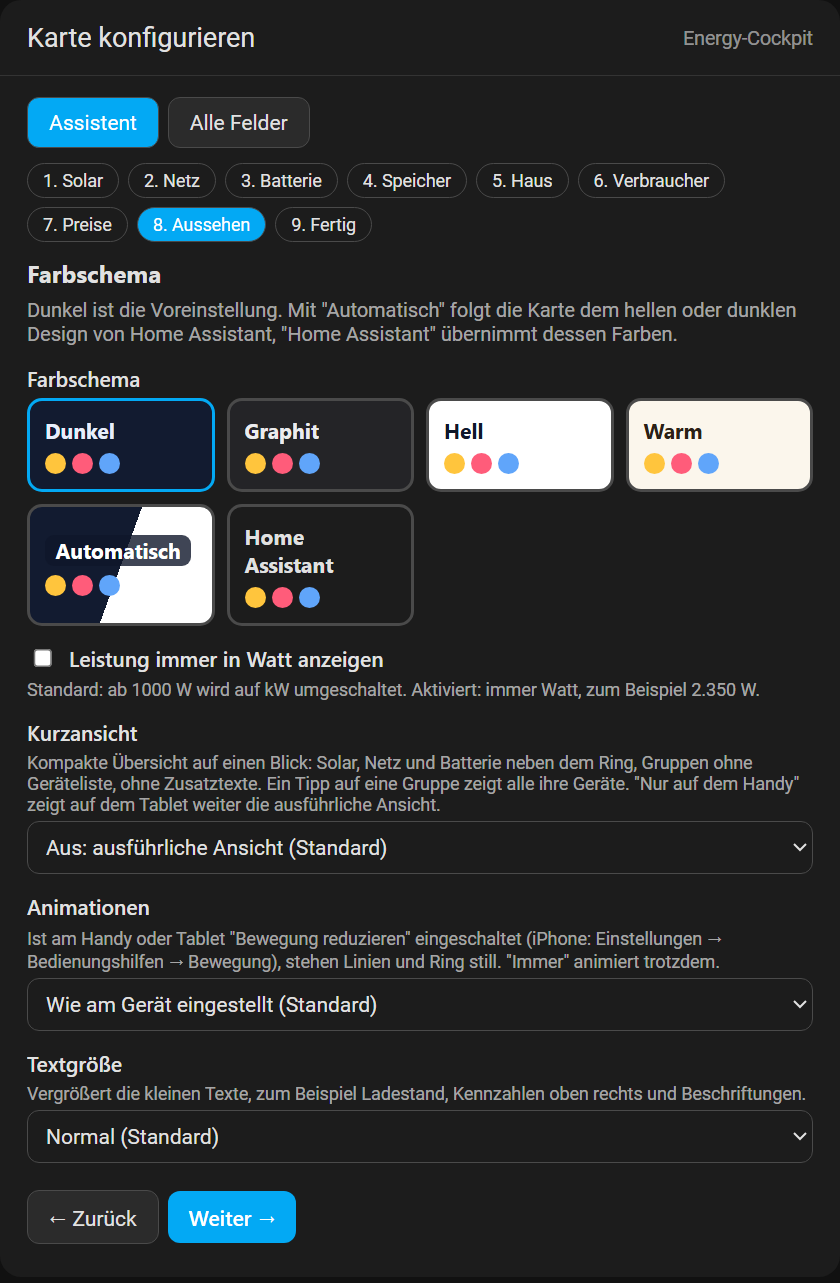
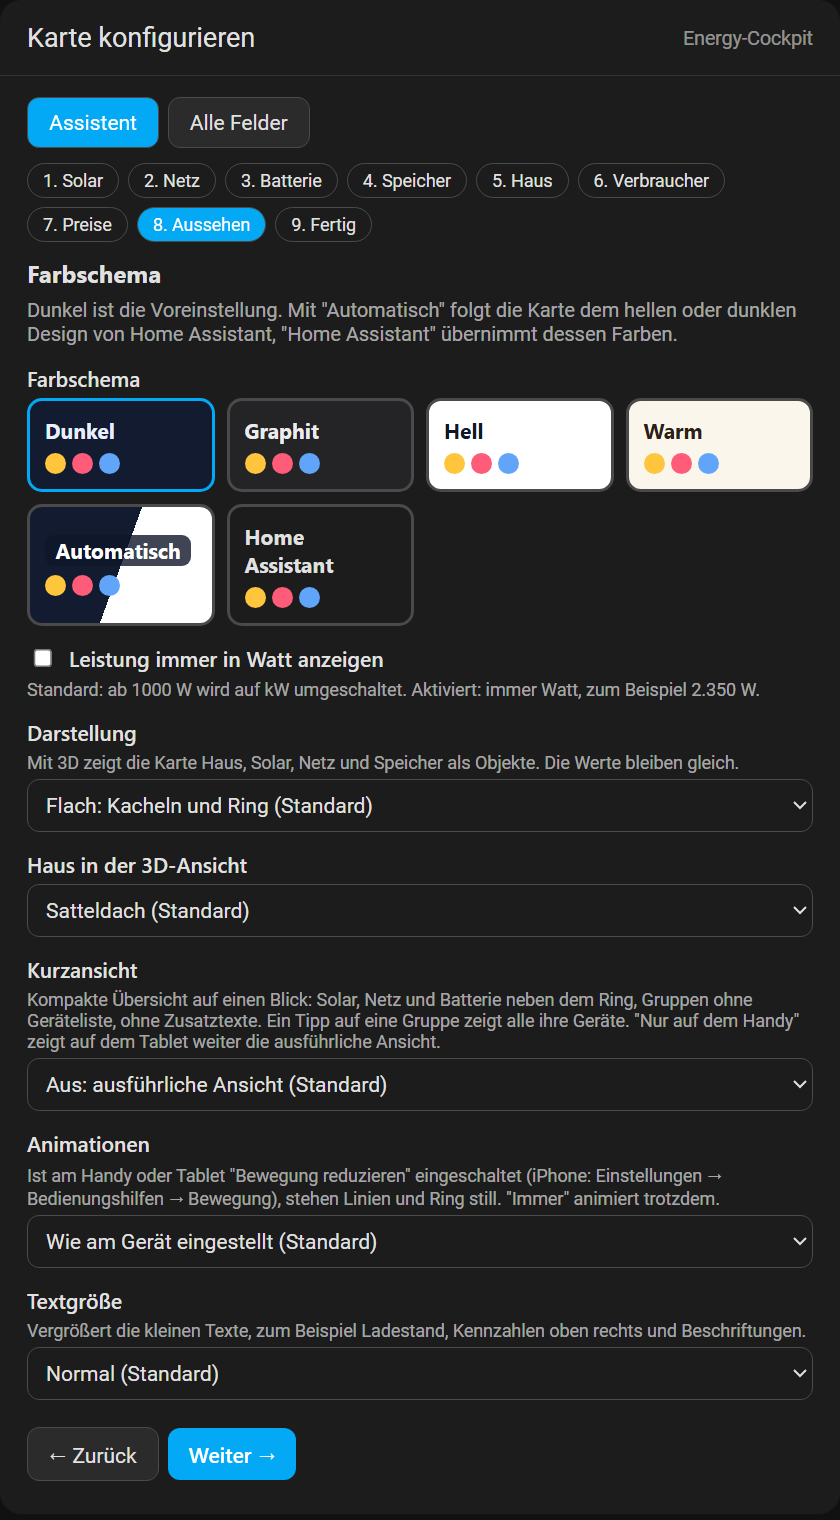
0.19.0: 3D-Ansicht, Kosten je Verbraucher, Reiter Woche, Preisverlauf
- Energiefluss: style 3d (Haus, Solar, Netz, Speicher als Objekte), house_style
- Statistik: cost_consumers, Reiter Woche, grid_price_history, pv_ac
- Doku, README, Screenshots und Tests ergaenzt

diff --git a/test/stats-costs.html b/test/stats-costs.html
@@ -87,5 +87,22 @@ async function run(){
   ok('Abfrage fehlgeschlagen: Bereich aus, kein Absturz',q(e,'.cc').style.display==='none');
   document.getElementById('res').textContent=`${fail?'FEHLER '+fail:'ALLE OK'}\n`+lines.join('\n');
 }
-if(new URLSearchParams(location.search).get('test'))run();else mount({...base,pv_ac:true},hassFor());
+if(new URLSearchParams(location.search).get('test'))run();else{const P=new URLSearchParams(location.search);let c={...base,pv_ac:true},st={};
+  if(P.get('scene')==='demo'){ /* Vorschau mit gerechneten Beispielstunden fuer die Bilder der Doku */
+    hrs.length=0;past.t=0;Object.assign(map,{'sensor.cg':'cg','sensor.cb':'cb','sensor.cp':'cp','sensor.wp':'wp','sensor.ww':'ww','sensor.tr':'tr'});
+    for(let d=0;d<=45;d++)for(let h=0;h<24;h++){const t=d0-d*24*H+h*H;if(d===0&&h>now.getHours()-1)break;
+      const sun=h>=7&&h<=17?Math.sin(Math.PI*(h-7)/10):0,pv=+(2.6*sun*(0.55+0.45*(((d*37)%10)/10))).toFixed(2),
+        peak=(h>=6&&h<=8)||(h>=18&&h<=22),car=(d%2===0&&h>=10&&h<=12)?2.2:(d%2===1&&h>=1&&h<=3)?2.2:0,
+        wp=h>=5?+(0.22+0.1*(1-sun)).toFixed(2):0.15,ww=h>=11&&h<=12?0.8:0,tr=(d%3===0&&h===15)?0.9:0,
+        cons=0.4+(peak?0.55:0)+car+wp+ww+tr,chg=(h>=9&&h<=14&&pv>cons)?Math.min(1.2,+(pv-cons).toFixed(2)):0,dis=(h>=18&&h<=23)?0.7:0,
+        imp=Math.max(0,+(cons+chg-pv-dis).toFixed(2)),exp=Math.max(0,+(pv+dis-cons-chg).toFixed(2));
+      const cp=car&&pv>0?Math.min(car,pv):0,cb=car&&!cp&&dis>0?Math.min(car,dis):0,cg=car-cp-cb;
+      const mix=(x)=>{const tot=pv+imp+dis||1;return{g:x*imp/tot,b:x*dis/tot,p:x*pv/tot}};
+      hrs.push({t,pv,imp,exp,chg,dis,e:0,g:0,b:0,p:0,cg,cb,cp,wp,ww,tr});}
+    c={pv_total:'sensor.pv',grid_import_total:'sensor.imp',grid_export_total:'sensor.exp',battery_charge_total:'sensor.chg',battery_discharge_total:'sensor.dis',grid_price_ct:34,feed_in_ct:7.6,pv_ac:true,
+      cost_consumers:[{name:'E-Auto',icon:'mdi:car-electric',color:'#a78bfa',grid:'sensor.cg',battery:'sensor.cb',pv:'sensor.cp',power:'sensor.carw'},
+        {name:'Wärmepumpe',icon:'mdi:heat-pump',color:'#fb923c',energy:'sensor.wp',power:'sensor.wpw'},{name:'Warmwasser',icon:'mdi:water-boiler',color:'#38bdf8',energy:'sensor.ww'},{name:'Trockner',icon:'mdi:tumble-dryer',color:'#34d399',energy:'sensor.tr'}]};
+    st={'sensor.carw':S(7200),'sensor.wpw':S(1450)};}
+  else if(P.get('n')==='4')c.cost_consumers=[base.cost_consumers[0],base.cost_consumers[1],{name:'Waermepumpe',energy:'sensor.e',power:'sensor.w'},{name:'Trockner',energy:'sensor.e'}];
+  const e=mount(c,hassFor(st));if(P.get('tab'))wait(900).then(()=>tab(e,P.get('tab')));}
 </script></body></html>

diff --git a/dist/energy-cockpit.js b/dist/energy-cockpit.js
@@ -1,4 +1,4 @@
-/*! energy-cockpit v0.18.2 - MIT License */
+/*! energy-cockpit v0.19.0 - MIT License */
 /* ---- common.js ---- */
 /* Gemeinsame Helfer für alle energy-cockpit-Karten. Wird im Bundle als globales Objekt WD bereitgestellt. */
 const WD = (() => {
@@ -4264,12 +4264,12 @@ footer{display:grid;grid-template-columns:repeat(auto-fit,minmax(130px,1fr));gri
 .cc-grid{display:grid;grid-template-columns:repeat(auto-fit,minmax(250px,1fr));grid-gap:12px;gap:12px}
 .ccard{position:relative;min-width:0;padding:14px 15px 13px;border-radius:18px;background:linear-gradient(150deg,rgba(var(--c),.11),rgba(var(--c),.015) 62%);border:1px solid rgba(var(--c),.2);transition:opacity .4s}
 .ccard.idle{opacity:.62}
-.cc-top{display:flex;align-items:center;min-width:0}
+.cc-top{display:flex;flex-wrap:wrap;align-items:center;min-width:0}
 .cc-top .ico{width:36px;height:36px;border-radius:12px;margin-right:10px}
 .cc-name{min-width:0;margin-right:auto}
 .cc-name b{display:block;font-size:.92rem;font-weight:700;white-space:nowrap;overflow:hidden;text-overflow:ellipsis}
 .cc-name small{display:block;white-space:nowrap;font-size:.62rem;font-weight:650;letter-spacing:.07em;text-transform:uppercase;color:rgb(var(--mut));margin-top:2px}
-.cc-live{display:none;align-items:center;flex:none;margin-left:8px;padding:4px 9px;border-radius:999px;font-size:.68rem;font-weight:650;white-space:nowrap;font-variant-numeric:tabular-nums;color:rgb(var(--c));background:rgba(var(--c),.13)}
+.cc-live{display:none;align-items:center;flex:none;margin:4px 0 0 auto;padding:4px 9px;border-radius:999px;font-size:.68rem;font-weight:650;white-space:nowrap;font-variant-numeric:tabular-nums;color:rgb(var(--c));background:rgba(var(--c),.13)}
 .cc-live.on{display:flex}
 .cc-live:before{content:'';width:6px;height:6px;border-radius:50%;background:rgb(var(--c));margin-right:6px;animation:ccdot 2s ease-in-out infinite}
 @keyframes ccdot{50%{opacity:.3}}

diff --git a/tools/make-screenshots.py b/tools/make-screenshots.py
@@ -55,6 +55,7 @@ JOBS = [
     ('wizard.html', 'wiz-flow-8-fertig', '?card=flow&step=8&cfg=flow&tab=Assistent'),
     ('wizard.html', 'wiz-devices-assistent', '?card=devices'),
     ('wizard.html', 'wiz-stats-1-zaehler', '?card=stats&step=0'),
+    ('wizard.html', 'wiz-stats-2-kosten', '?card=stats&step=4'),
     ('wizard.html', 'wiz-room-1-raum', '?card=room&step=0&cfg=room&tab=Assistent'),
     ('wizard.html', 'wiz-room-2-zaehler', '?card=room&step=1&cfg=room&tab=Assistent'),
     ('wizard.html', 'wiz-room-3-herkunft', '?card=room&step=2&cfg=room&tab=Assistent'),
@@ -114,13 +115,26 @@ JOBS.append(('stats.html', 'stats-preisfehler', '?shot=1&preisfehler=1'))
 JOBS.append(('room-kaskade.html', 'room-kaskade', '?shot=1'))
 JOBS.append(('room-kaskade.html', 'room-kaskade-mehrere', '?shot=1&multi=1'))
 JOBS.append(('flow.html', 'kaskade-differenz-mehrere', '?shot=1&scene=sun&kaskade=3'))
+# 3D-Ansicht und Kosten je Verbraucher
+JOBS.append(('flow-3d.html', 'flow-3d', '?case=normal'))
+JOBS.append(('flow-3d.html', 'flow-3d-zwei', '?case=zwei'))
+JOBS.append(('flow-3d.html', 'flow-3d-flach', '?case=flach'))
+JOBS.append(('flow-3d.html', 'flow-3d-hell', '?case=zwei&theme=hell'))
+JOBS.append(('flow-3d.html', 'flow-3d-handy', '?case=normal&w=380'))
+JOBS.append(('stats-costs.html', 'kosten', '?scene=demo&tab=day'))
+JOBS.append(('stats-costs.html', 'kosten-woche', '?scene=demo&tab=week'))
 only = sys.argv[1:]
 for page, name, q in JOBS:
     if only and name not in only:
         continue
-    w, h = (560, 2000) if name.endswith('-handy') else (1100, 1400) if name in ('gruppen-reihe-breit', 'watt-only') else (560, 1500) if name in ('sammel-schmal', 'batterien-zwei-schmal') else (1100, 1400) if name.startswith('sammel') else (1100, 3200) if page.startswith('room') else ((1100, 1400) if (page.startswith('theme') or name.startswith('theme') or name.startswith('batterie') or name in ('flow', 'devices', 'stats', 'stats-preisfehler', 'flow-watt', 'rest-an', 'rest-aus', 'rest-ab-10', 'pv2-bkw', 'pv2-bkw-verbraucher', 'text-normal', 'text-gross', 'text-sehr-gross')) else (560, 1100))
+    w, h = (560, 2000) if name.endswith('-handy') else (1100, 1400) if name in ('gruppen-reihe-breit', 'watt-only') else (560, 1500) if name in ('sammel-schmal', 'batterien-zwei-schmal') else (1100, 1400) if name.startswith(('sammel', 'flow-3d', 'kosten')) else (1100, 3200) if page.startswith('room') else ((1100, 1400) if (page.startswith('theme') or name.startswith('theme') or name.startswith('batterie') or name in ('flow', 'devices', 'stats', 'stats-preisfehler', 'flow-watt', 'rest-an', 'rest-aus', 'rest-ab-10', 'pv2-bkw', 'pv2-bkw-verbraucher', 'text-normal', 'text-gross', 'text-sehr-gross')) else (560, 1100))
     p = shot(page, name, w, h, 1.5 if w < 1000 else 1, q)
     trim(p, pad=6)
+    if name in ('kosten', 'kosten-woche'):  # nur Kopf und Bereich "Kosten je Verbraucher"
+        im = Image.open(p); top = im.crop((0, 0, im.width, 78)); mid = im.crop((0, 425, im.width, 862))
+        out_im = Image.new('RGB', (im.width, 78 + mid.height), im.getpixel((im.width - 1, im.height - 1))); out_im.paste(top, (0, 0)); out_im.paste(mid, (0, 78)); out_im.save(p)
+    if name == 'wiz-stats-2-kosten':  # nur die ersten beiden Verbraucher
+        im = Image.open(p); im.crop((0, 0, im.width, 1060)).save(p)
     if name == 'wiz-devices-assistent':  # nur den Assistentenkasten (Formular gibt es im Test nicht)
         im = Image.open(p); im.crop((0, 0, im.width, 318)).save(p)
     print(name)

diff --git a/docs/KONFIGURATION.md b/docs/KONFIGURATION.md
@@ -40,6 +40,8 @@ Mindestens `pv` **oder** `grid` ist nötig.
 | `battery.reserve_soc`, `battery.max_soc` | Sensor oder Helfer (Zahl-Entität) | Entladegrenze und Maximalladung der Batterie in %. Der Sensor heißt bei jedem Wechselrichter anders, deshalb frei wählbar (zum Beispiel "Entlade-Ende-Ladestand") |
 | `battery.reserve_pct`, `battery.max_pct` | Zahl | Alternative ohne Sensor: fester Wert in %, zum Beispiel `10`, wenn die Batterie nur bis 10 % entladen wird. Ein Sensor hat Vorrang |
 | `animations` | `auto` (Standard), `always` | `auto`: Ist am Gerät "Bewegung reduzieren" eingeschaltet, stehen Linien, Ring und das Leuchten von Kacheln und Symbolen still, und die Zahlen zählen nicht hoch. `always`: immer animieren. Unabhängig davon rechnet die Karte höchstens einmal pro Sekunde neu, und Zahlen zählen nur bei großen Sprüngen hoch |
+| `style` | `flach` (Standard), `3d` | `3d`: Haus, Solar, Netz und Speicher erscheinen als Objekte. Die Werte und Kennzahlen bleiben gleich, siehe [3D-Ansicht](#3d-ansicht-style-3d) |
+| `house_style` | `sattel` (Standard), `flach` | Dachform des Hauses in der 3D-Ansicht |
 | `text_size` | `normal` (Standard), `gross`, `sehr_gross` | Vergrößert die kleinen Texte (Ladestand, Kennzahlen oben rechts, Beschriftungen). Gut für Handy und Tablet |
 | `rest_min` | Zahl in % | Zeigt die Kachel "Nicht erfasst" erst, wenn mindestens so viel Prozent des Hausverbrauchs keiner Gruppe zugeordnet sind (zum Beispiel `10`). Standard: immer anzeigen |
 | `hide_rest` | `true` / `false` | Blendet die Kachel "Nicht erfasst" unter den Gruppen aus. Sie zeigt den Hausverbrauch, der keiner Gruppe zugeordnet ist (Hausverbrauch minus Summe der Gruppen). Mit `rest.name` lässt sich ihre Beschriftung ändern |
@@ -326,7 +328,11 @@ Pflicht sind `pv_total`, `grid_import_total` und `grid_export_total`. Alles ande
 
 ### Kosten je Verbraucher (optional)
 
+![Kosten je Verbraucher: Reiter Woche](img/kosten-woche.png)
+
 Zeigt je Verbraucher die Netzkosten und was Solar und Akku gespart haben, in den Reitern Heute, Woche, Monat und Jahr. Einrichten geht im Assistenten im Schritt *Kosten* (bis zu vier Verbraucher), unter "Alle Felder" oder in YAML. Ohne Eintrag erscheinen weder der Bereich noch der Reiter Woche.
+
+![Assistent: Schritt Kosten](img/wiz-stats-2-kosten.png)
 
 ```yaml
 pv_ac: true                     # nur bei Hybrid-Wechselrichtern, siehe unten
@@ -476,6 +482,29 @@ Unterhalb der Tabelle zeigt die Karte zum Vergleich immer auch den Betrag für "
 - **Betriebszeiten:** aktive Stunden heute, Woche und je Wochentag sowie eine Heatmap Wochentag mal Stunde (letzte 8 Wochen).
 - **Monatsarchiv:** zeigt festgehaltene Monate mit Zählerständen, Mengen, Preisen und Saldo. Das Archiv füllt eine Automation; die Karte liest nur das Attribut `monate` (Liste mit `k` als `JJJJ-MM`, `kwh`, `g`, `b`, `p`, `cost`, `pg`, `pf`, `ab` und `dev` mit `n`, `a`, `e`, `kwh`).
 
+
+### 3D-Ansicht: `style: 3d`
+
+Statt Kacheln und Ring zeigt die Karte Haus, Solar, Netz und Speicher als kleine 3D-Objekte. Alle Zahlen, Kacheln, Gruppen und Einstellungen bleiben, nur die Darstellung ändert sich. Ohne `style` (oder mit `flach`) ändert sich nichts.
+
+```yaml
+type: custom:energy-cockpit-flow-card
+style: 3d
+house_style: sattel   # oder flach (Flachdach)
+```
+
+![3D-Ansicht mit zwei Speichern und Balkonkraftwerk](img/flow-3d-zwei.png)
+
+- **Das Haus** steht auf dem Ring mit dem Mix aus Solar, Akku und Netz. Der Hausverbrauch steht darüber.
+- **Solar:** Die Module sind zu sehen, bei `pv.strings` mit einer Reihe je String. Die Sonne leuchtet mit dem Ertrag.
+- **Netz:** Der Zählerkasten zeigt die Leistung auf dem Display. Ein Bezug leuchtet rot, eine Einspeisung grün.
+- **Speicher:** Der Füllstand steht auf der Front des Speichers. Mehrere Speicher stehen nebeneinander. Gestapelte Akkus mit einem gemeinsamen Sensor erscheinen als ein Turm mit beiden Ladeständen.
+- **Linien nach den echten Wegen:** Die Linien laufen dort, wo die Energie fließt. Solar lädt einen Speicher vor dem Wechselrichter direkt (`pv_to_battery: direkt`), ein Speicher speist ins Netz, das Netz lädt den Akku. Das Haus bekommt nur, was dort ankommt.
+- Die Kurzansicht (`compact`), das Handy-Layout und die Farbschemen funktionieren auch in 3D.
+
+| Dach | Handy | Hell |
+|---|---|---|
+| ![Flachdach](img/flow-3d-flach.png) | ![3D am Handy](img/flow-3d-handy.png) | ![3D im hellen Schema](img/flow-3d-hell.png) |
 
 ### Kurzansicht fürs Handy: `compact`
 

diff --git a/CHANGELOG.md b/CHANGELOG.md
@@ -1,5 +1,15 @@
 # Änderungsprotokoll
 
+## 0.19.0
+- **Energiefluss, 3D-Ansicht (optional, `style: 3d`):** Haus, Solar, Netz und Speicher erscheinen als kleine 3D-Objekte statt als Kacheln mit Symbolen. Das Haus steht auf dem Ring mit dem Mix aus Solar, Akku und Netz, der Ladestand steht auf der Front des Speichers, das Netz zeigt die Leistung auf dem Display des Zählerkastens. Die Linien laufen nach den echten Wegen: Solar lädt den Speicher direkt, Solar speist direkt ein, das Netz lädt den Akku, der Speicher speist ein. Das Haus bekommt nur, was dort ankommt. Mehrere Speicher, Balkonkraftwerk, PV-Strings, Gruppen, Kurzansicht, Handy-Layout und alle Farbschemen funktionieren auch in 3D. Das Haus gibt es mit Satteldach oder Flachdach (`house_style`). Ohne `style` ändert sich nichts. Einstellbar im Schritt "Aussehen" des Assistenten.
+- **Statistik, Kosten je Verbraucher (optional, `cost_consumers`):** Zeigt je Gerät, etwa E-Auto, Wärmepumpe oder Warmwasser, die Netzkosten und was Solar und Akku gespart haben, in den Reitern Heute, Woche, Monat und Jahr. Mit je einem Zähler für Netz, Akku und PV misst die Karte, mit nur einem Zähler teilt sie den Verbrauch jeder Stunde nach dem Mix des Hauses auf. Läuft das Gerät, steht die Leistung mit den Kosten pro Stunde dabei. Symbol und Farbe wählt die Karte selbst, das Symbol nach dem Namen. Einrichten im neuen Assistenten-Schritt "Kosten" (bis zu vier Verbraucher, weitere unter "Alle Felder" oder in YAML). Wunsch aus [#19](https://github.com/msucimaker3112/energy-cockpit/issues/19).
+- **Statistik, neuer Reiter "Woche":** Er zählt ab Montag und zeigt auch die Geldwerte und die Autarkie oben für diese Woche. Er erscheint nur, wenn Verbraucher eingetragen sind.
+- **Statistik, Preisverlauf (optional, `grid_price_history`):** Jede Stunde rechnet mit ihrem eigenen Strompreis, aus der Langzeitstatistik des Preis-Sensors (dynamischer Tarif), aus einer Liste früherer Preise oder mit dem heutigen Preis. Gilt für die Kosten je Verbraucher.
+- **Statistik, Hybrid-Wechselrichter (optional, `pv_ac`):** Zählt der Gesamtertrag nur die Abgabe des Wechselrichters, rechnet die Karte den Hausverbrauch als PV + Bezug - Einspeisung. Das gilt für die Autarkie und die Aufteilung nach Haus-Mix.
+- **Statistik, Kosten-Kärtchen:** Das Badge mit Leistung und Kosten pro Stunde rutscht bei langen Namen in die nächste Zeile, statt den Namen abzuschneiden.
+
+Alles Neue ist optional, bestehende Einstellungen bleiben unverändert.
+
 ## 0.18.2
 - **Energiefluss, weniger Rechenlast:** Das Leuchten von Kacheln, Symbolen und Titelpunkt sowie der Glanz im Banner laufen jetzt über Deckkraft und Verschiebung statt über Schatten und Position. Das Gerät muss dafür nicht mehr in jedem Bild neu zeichnen, die Optik bleibt praktisch gleich. Eine Animation im Ring, die nicht zu sehen war, ist entfernt.
 - **Energiefluss, deutlich weniger Rechenlast bei laufenden Sensoren:** Die Karte rechnet höchstens einmal pro Sekunde neu. Zahlen zählen nur noch bei großen Sprüngen hoch, kleine Änderungen stehen sofort da. Das Hochzählen hat bisher bei jeder kleinen Änderung in jedem Bild Text geschrieben, das kann Handys spürbar wärmen.

diff --git a/README.md b/README.md
@@ -39,6 +39,24 @@
 
 The user interface is currently **German only**. An English translation is planned and a good way to contribute, see the issues labelled [good first issue](https://github.com/msucimaker3112/energy-cockpit/labels/good%20first%20issue) and [CONTRIBUTING.md](CONTRIBUTING.md). Issues and pull requests in English are welcome.
 
+## Neu in 0.19: 3D-Ansicht und Kosten je Verbraucher
+
+**3D-Ansicht für den Energiefluss.** Mit einer Zeile (`style: 3d`) wird aus Kacheln und Ring ein kleines Haus mit Solar, Zählerkasten und Speicher. Der Ladestand steht auf dem Akku, das Netz zeigt die Leistung auf dem Display, die Linien laufen nach den echten Wegen der Energie. Mehrere Speicher, Balkonkraftwerk, Gruppen, Handy-Ansicht und alle Farbschemen gehen auch in 3D. Ohne die Zeile bleibt alles wie bisher.
+
+![3D-Ansicht des Energieflusses](docs/img/flow-3d.png)
+
+```yaml
+type: custom:energy-cockpit-flow-card
+style: 3d
+house_style: sattel   # oder flach
+```
+
+**Kosten je Verbraucher in der Statistik.** E-Auto, Wärmepumpe, Warmwasser: Die Karte zeigt je Gerät, was der Netzstrom kostet und wie viel Solar und Akku gespart haben, für heute, die Woche, den Monat und das Jahr. Neu ist der Reiter **Woche** (ab Montag) und ein **Preisverlauf**, damit alte Stunden zum alten Preis zählen. Der Assistent hat dafür einen eigenen Schritt "Kosten".
+
+![Kosten je Verbraucher](docs/img/kosten-woche.png)
+
+Alle Einstellungen stehen in der [Konfiguration](docs/KONFIGURATION.md#3d-ansicht-style-3d) und im [Änderungsprotokoll](CHANGELOG.md).
+
 ## Handy und Tablet: eine Karte, zwei Ansichten
 
 Die Energiefluss-Karte erkennt, wie breit der Bildschirm ist, und zeigt automatisch die passende Ansicht. Du brauchst **kein zweites Dashboard**.
